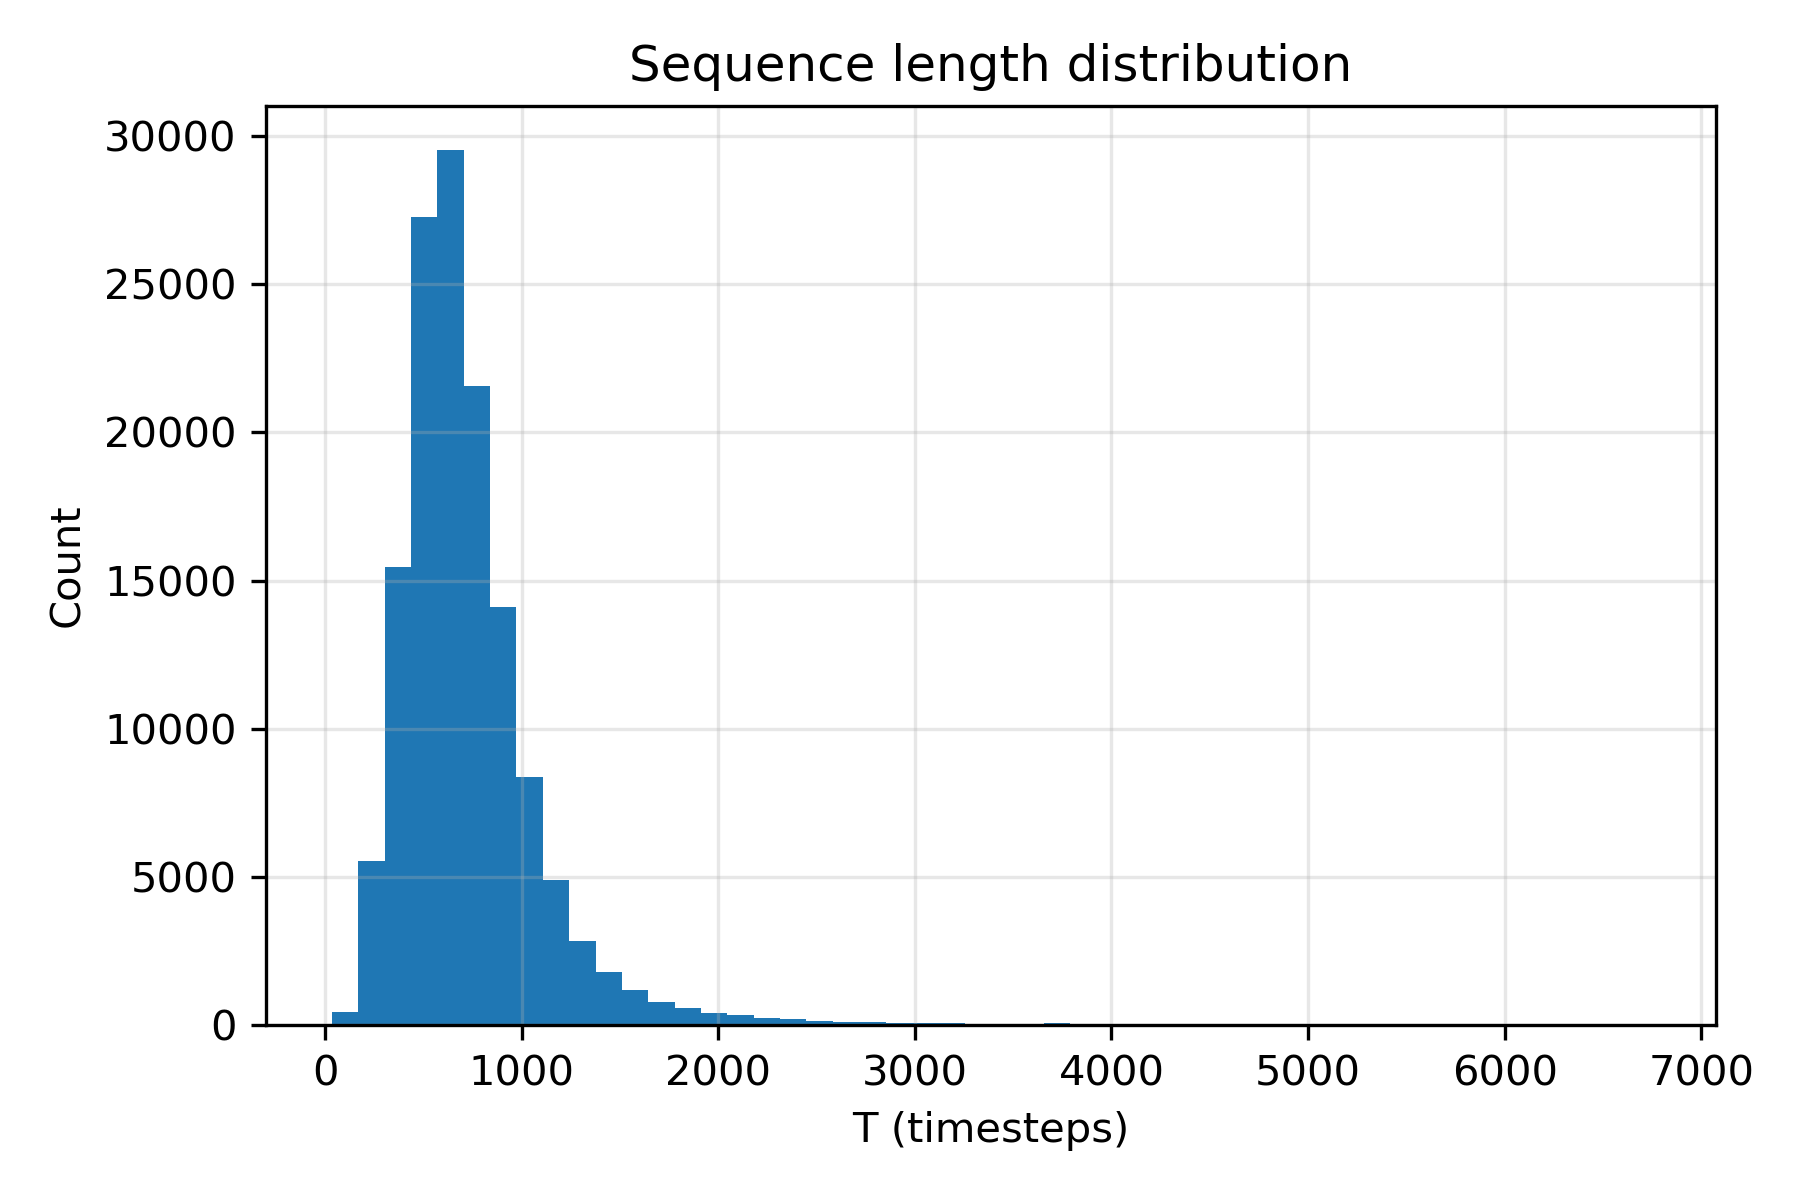
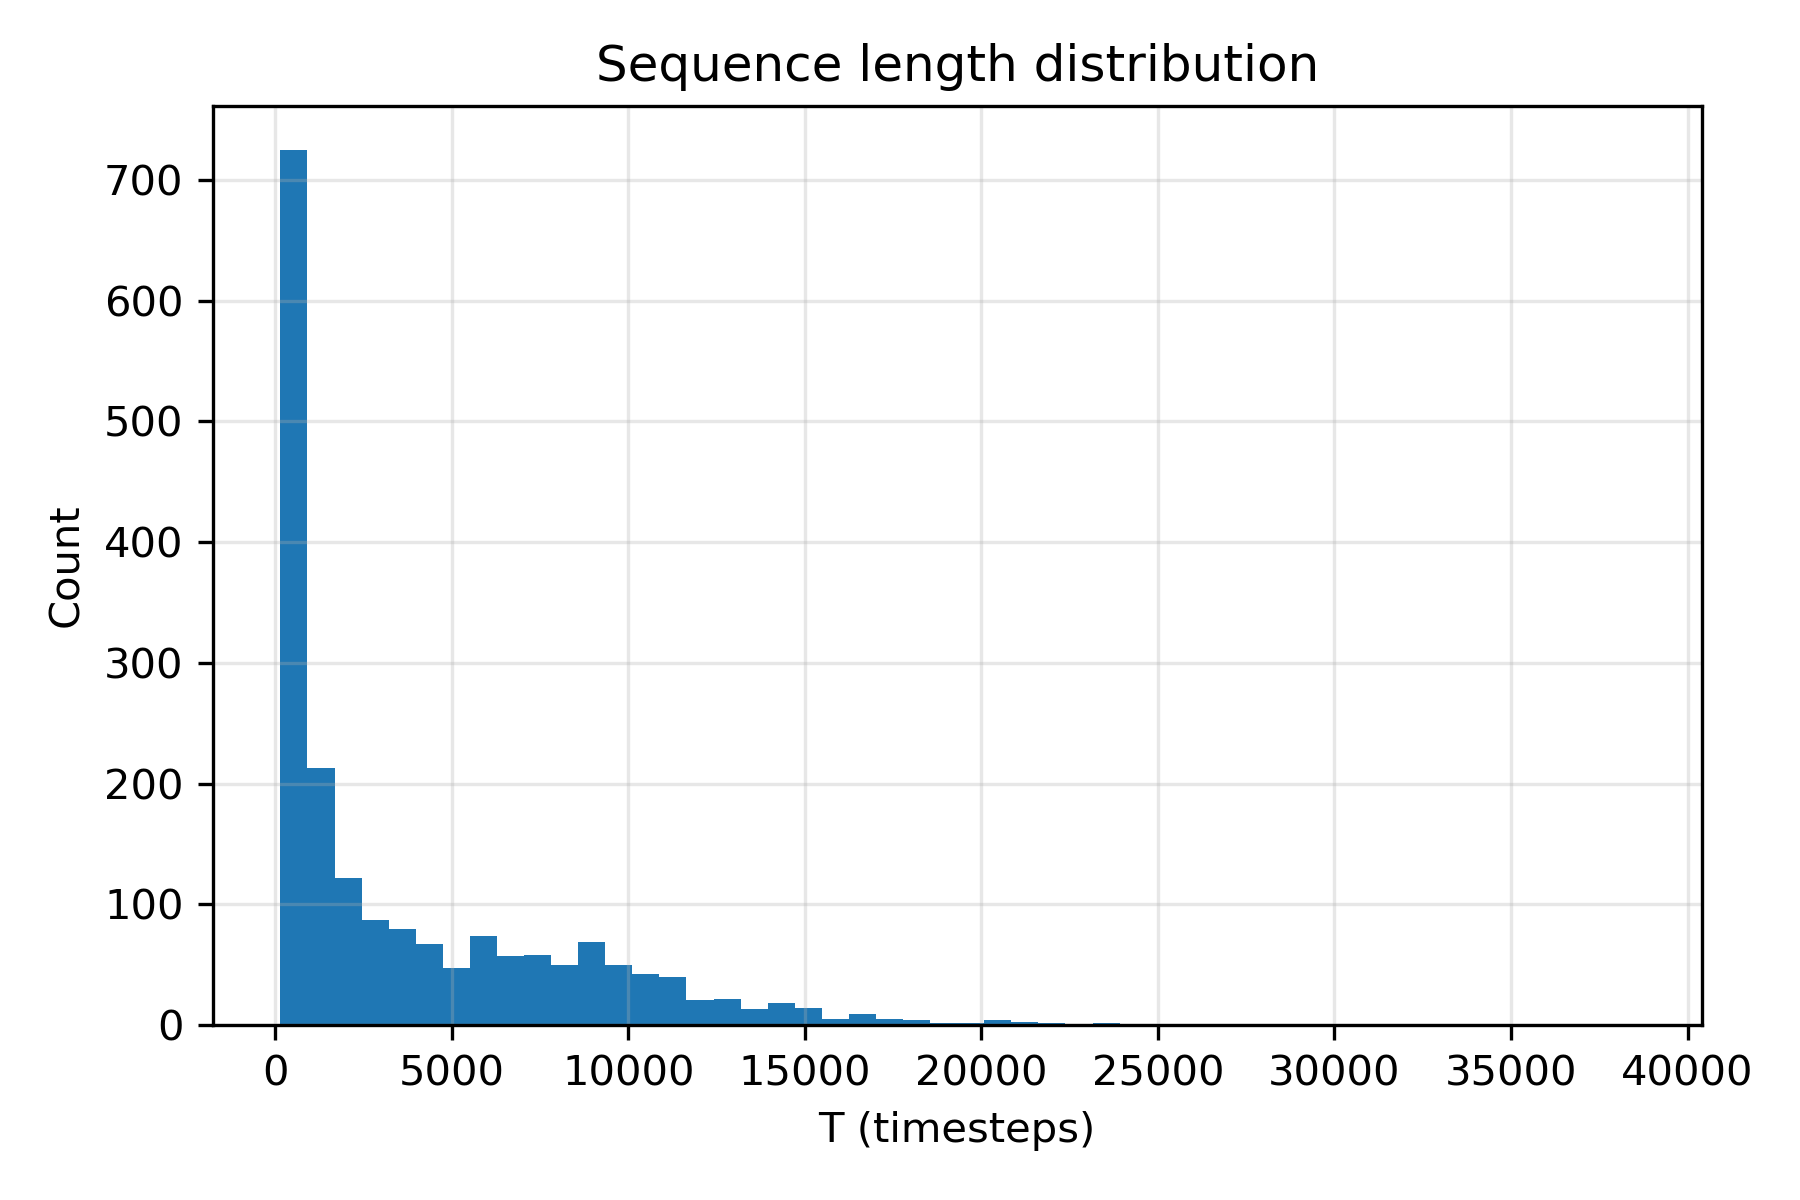
embeddings extracted from preLBD->no rihght labeling yet

diff --git a/test.py b/test.py
@@ -30,7 +30,8 @@ parser.add_argument('--num_classes',type=int,default=1731)
 parser.add_argument('--epoch',type=int,default=80)
 parser.add_argument('--seed',type=int,default=123)
 parser.add_argument('--cuda',type=bool,default=True)
-parser.add_argument('--folder',type=str,default='./data/OLIWER')
+#parser.add_argument('--folder',type=str,default='./data/OLIWER')
+parser.add_argument('--folder',type=str,default='./data/LBD_CZ_002')
 parser.add_argument('--ngpu',type=int,default=1)
 parser.add_argument('--gpu',type=str,default='0')
 parser.add_argument('--weights',type=str,default='./weights/model.pth') # change 
@@ -59,7 +60,8 @@ logger = create_logger(opt.log_root,name=opt.name,test=True)
 # query_root = f'{opt.folder}/query-tf.pkl'
 # with open(query_root,'rb') as f:
 #     query_data = pickle.load(f,encoding='iso-8859-1')
-gallery_root = f'{opt.folder}/test-tf.pkl'
+#gallery_root = f'{opt.folder}/test-tf.pkl'
+gallery_root = f'{opt.folder}/LBD_CZ_002-tf.pkl'
 # Error warining
 #with open(gallery_root,'rb') as f:
 #   gallery_data = pickle.load(f,encoding='iso-8859-1')
